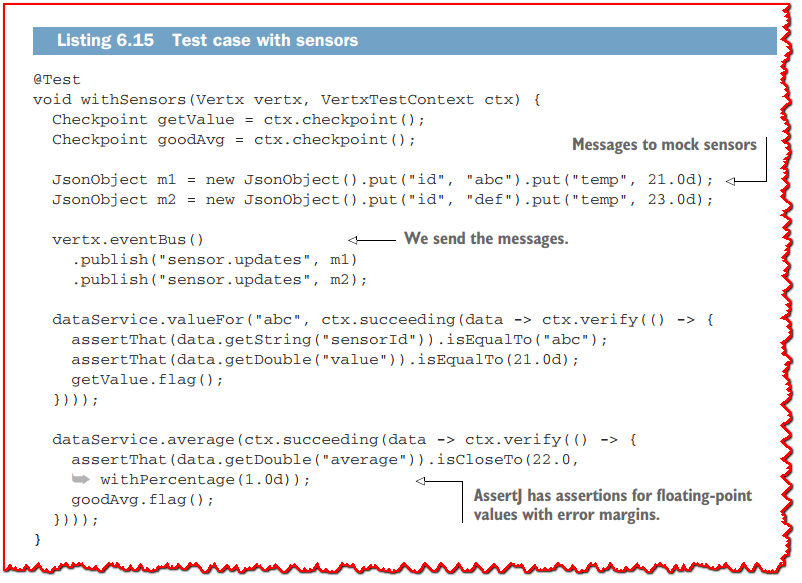
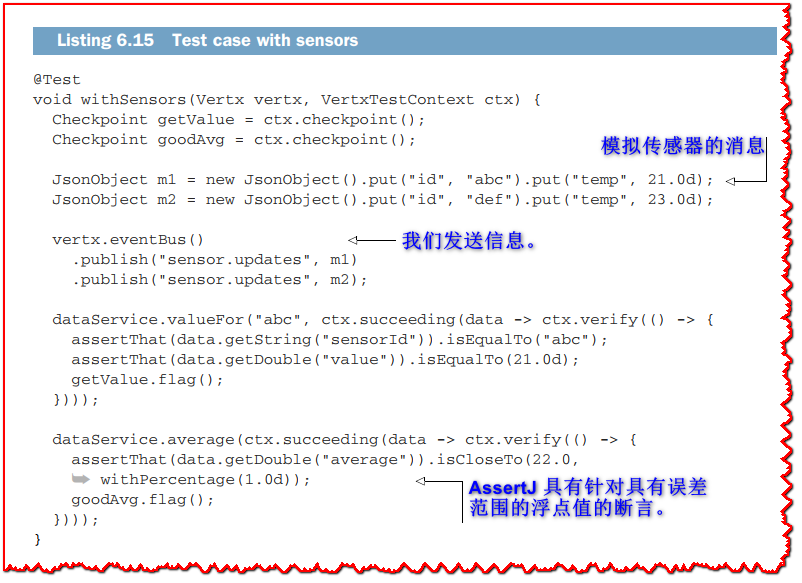
第6章翻译完成!

Changed region(s): [[0.5611, 0.8027, 0.9352, 0.8954], [0.717, 0.2161, 0.9663, 0.2779], [0.4988, 0.3705, 0.717, 0.4322]]

diff --git a/Chapter6-BeyondTheEventBus.md b/Chapter6-BeyondTheEventBus.md
@@ -2,217 +2,217 @@
 
 **本章涵盖了**
 
-  - How to expose services on top of the event bus
-  - Asynchronous testing of both verticles and event-bus services
+  - 如何在事件总线上公开服务
+  - Verticle 和事件总线服务的异步测试
 
-The event bus is a fundamental tool for articulating event processing in Vert.x, but there is more to it! Event-bus services are useful for exposing typed interfaces rather than plain messaging, especially when multiple message types are expected at an event-bus destination. Testing is also an important concept, and we’ll look at what is different in testing asynchronous Vert.x code compared to traditional testing.
+事件总线是在 Vert.x 中表达事件处理的基本工具，但它还有更多功能！ 事件总线服务对于公开类型化接口而不是简单的消息传递很有用，尤其是在事件总线目标处需要多种消息类型时。 测试也是一个重要的概念，我们将看看测试异步 Vert.x 代码与传统测试有什么不同。
 
-In this chapter we will revisit an earlier example, refactor it into an event-bus service, and test it.
+在本章中，我们将重温前面的示例，将其重构为事件总线服务，并对其进行测试。
 
-## 6.1   Revisiting heat sensors with a service API
+## 6.1   使用服务 API 重新审视热传感器
 
-In chapter 3 we used heat sensors as an example. We had a *SensorData* verticle that kept the last observed values for each sensor and compute their average using request/reply communication on the event bus. The following listing shows the code we used to compute the temperature average.
+在第 3 章中，我们以热传感器为例。 我们有一个 *SensorData* verticle，它保存每个传感器的最后观察值，并使用事件总线上的请求/应答通信计算它们的平均值。 下面的清单显示了我们用来计算温度平均值的代码。
 
 ![](Chapter6-BeyondTheEventBus.assets/Listing_6_1.png)
 
-This code is tightly coupled with the Vert.x event-bus APIs, as it needs to receive a message and reply to it. Any software component willing to call *average* has to send a message over the event bus and expect a response.
+此代码与 Vert.x 事件总线 API 紧密耦合，因为它需要接收消息并回复它。 任何愿意调用 *average* 的软件组件都必须通过事件总线发送消息并期待响应。
 
-But what if we could have a regular Java interface with methods to call, rather than having to send and receive messages over the event bus? The interface proposed in the next listing would be completely agnostic of the event bus.
+但是，如果我们可以拥有一个带有调用方法的常规 Java 接口，而不必通过事件总线发送和接收消息呢？ 下一个清单中提出的接口将与事件总线完全无关。
 
 ![](Chapter6-BeyondTheEventBus.assets/Listing_6_2.png)
 
-The proposed interface has methods with trailing callback parameters so the caller will be notified asynchronously of responses and errors. The *`Handler<AsyncResult<T>>`* type is commonly used for callbacks in Vert.x APIs, where T can be anything but is typically a JSON type.
+提议的接口具有带有尾随回调参数的方法，因此调用者将被异步通知响应和错误。 *`Handler<AsyncResult<T>>`* 类型通常用于 Vert.x API 中的回调，其中 T 可以是任何东西，但通常是 JSON 类型。
 
-The interface of listing 6.2 is what we are aiming for with event-bus services. Let’s revise the heat sensor example, replacing event-bus interactions with a SensorDataService typed Java interface.
+**清单 6.2** 的接口是我们使用事件总线服务的目标。 让我们修改热传感器示例，将事件总线交互替换为 *SensorDataService* 类型的 Java 接口。
 
-## 6.2 Return of the RPCs (remote procedure calls)
+## 6.2 返回 RPC（远程过程调用）
 
-You may already be familiar with *remote procedure calls*, a popular abstraction in distributed computing. RPCs were introduced to hide network communications when you’re calling functions running on another machine (the server). The idea is that a local function acts as a proxy, sending a message with the call arguments over the network to the server, and the server then calls the *real* function. The response is then sent back to the proxy, and the client has the illusion of having called a regular, local function.
+您可能已经熟悉 *远程过程调用*，这是分布式计算中的一种流行抽象。 当您调用在另一台机器（服务器）上运行的函数时，引入了 RPC 来隐藏网络通信。 这个想法是本地函数充当代理，通过网络向服务器发送带有调用参数的消息，然后服务器调用 *real* 函数。 然后将响应发送回代理，客户端会产生调用常规本地函数的错觉。
 
-Vert.x event-bus services are a form of *asynchronous RPC*:
-  - A service encapsulates a set of operations, like *SensorDataService* in listing 6.2.
-  - A service is described by a regular Java API with methods for exposed operations.
-  - Neither the requester nor the implementation need to directly deal with even-tbus messages.
+Vert.x 事件总线服务是一种*异步 RPC*：
+  - 服务封装了一组操作，如**清单 6.2** 中的 *SensorDataService*。
+  - 服务由带有公开操作方法的常规 Java API 描述。
+  - 请求者和实现者都不需要直接处理事件总线消息。
 
-Figure 6.1 illustrates the various components at stake when invoking the *average* method of the *SensorDataService* interface. The client code invokes the *average* method on a service proxy. This is an object that implements the *SensorDataService* interface and then sends a message on the event bus to the *sensor.data-service* destination (this can be configured). The message body contains the method call parameter values, so because *average* only takes a callback, the body is empty. The message also has an *action* header that indicates which method is being called.
+图 6.1 说明了在调用 *SensorDataService* 接口的 *average* 方法时所涉及的各种组件。 客户端代码调用服务代理上的 *average* 方法。 这是一个实现 *SensorDataService* 接口的对象，然后在事件总线上将消息发送到 *sensor.data-service* 目的地（可以配置）。 消息体包含方法调用参数值，所以因为*average*只接受回调，所以消息体为空。 该消息还有一个 *action* 标头，指示正在调用哪个方法。
 
 ![](Chapter6-BeyondTheEventBus.assets/Figure_6_1.png)
 
-A proxy handler listens to the *sensor.data-service* destination and dispatches method calls based on the message’s action header and body. The actual *SensorDataService* implementation is used here, and the *average* method is called. The proxy handler then replies to the event-bus message with a value passed through the *average* method callback. In turn, the client receives the reply through the service proxy, which passes the reply to the callback from the call on the client side.
+代理处理程序侦听 *sensor.data-service* 目标并根据消息的操作标头和正文分派方法调用。 这里使用了实际的 *SensorDataService* 实现，并调用了 *average* 方法。 然后，代理处理程序使用通过 *average* 方法回调传递的值回复事件总线消息。 反过来，客户端通过服务代理接收回复，服务代理将回复传递给来自客户端调用的回调。
 
-This model can simplify dealing with the event bus, especially when many operations need to be exposed. It thus makes sense to define a Java interface as an API rather than manually dealing with messages.
+这种模型可以简化对事件总线的处理，尤其是在需要公开许多操作时。 因此，将 Java 接口定义为 API 而不是手动处理消息是有意义的。
 
-## 6.3 Defining a service interface
+## 6.3 定义服务接口
 
-Listing 6.2 has the interface that we want for *SensorDataService*, but there is a little more code to add. To develop an event-bus service, you need to
-  - Write a Java interface that respects a few conventions
-  - Write an implementation
+清单 6.2 有我们想要的 *SensorDataService* 接口，但还需要添加一些代码。 要开发事件总线服务，您需要
+  - 编写一个尊重一些约定的 Java 接口
+  - 编写一个实现
 
-Vert.x does not rely on magic through bytecode engineering or reflection at runtime, so service proxies and handlers need to be written and compiled. Fortunately, Vert.x comes with code generators, so you will generate both the service proxies and handlers at compilation time rather than write them yourself.
+Vert.x 不依赖于通过字节码工程或运行时反射的魔法，因此需要编写和编译*服务代理* 和 *处理程序*。 幸运的是，Vert.x 带有代码生成器，因此您将在编译时生成服务代理和处理程序，而不是自己编写它们。
 
-The complete *SensorDataService* interface is detailed in the following listing.
+完整的 *SensorDataService* 接口在以下列表中详细说明。
 
 ![](Chapter6-BeyondTheEventBus.assets/Listing_6_3.png)
 
-The *@ProxyGen* annotation is used to mark an event-bus service interface so as to generate the proxy code.
+`@ProxyGen` 注解用于标记事件总线服务接口，以生成代理代码。
 
-You will also need to define a *package-info.java* file and annotate the package definition with *@ModuleGen* to enable the annotation processor, as shown in the next listing.
+您还需要定义一个 `package-info.java` 文件并使用 `@ModuleGen` 注解包定义以启用注解处理器，如下面的清单所示。
 
 ![](Chapter6-BeyondTheEventBus.assets/Listing_6_4.png)
 
-The methods in a service interface need to adhere to a few conventions, notably that of having a callback as the last parameter. You will be tempted to use return values rather than callbacks, but remember that we are dealing with asynchronous operations, so we need callbacks! It is idiomatic for service interfaces to have factory methods for both the service implementations (*create*) and proxies (*createProxy*). These methods greatly simplify the code for either getting a proxy or publishing a service.
+服务接口中的方法需要遵守一些约定，特别是将回调作为最后一个参数。 你会很想使用返回值而不是回调，但请记住，我们正在处理异步操作，所以我们需要回调！ 服务接口具有服务实现 (*create*) 和代理 (*createProxy*) 的工厂方法是**惯用**的。 这些方法极大地简化了获取代理或发布服务的代码。
 
-The *SensorDataServiceVertxEBProxy* class is generated by the Vert.x code generator, and if you peek into it, you will see event-bus operations. There is also a *SensorDataServiceVertxProxyHandler* class that’s generated, but only Vert.x will use it, not your code.
+*SensorDataServiceVertxEBProxy* 类由 Vert.x 代码生成器生成，如果您查看它，您将看到事件总线操作。 还生成了一个 *SensorDataServiceVertxProxyHandler* 类，但只有 Vert.x 会使用它，而不是您的代码。
 
-Let’s now look at the actual service implementation in the *SensorDataServiceImpl* class.
+现在让我们看看 *SensorDataServiceImpl* 类中的实际服务实现。
 
-## 6.4 Service implementation
+## 6.4 服务实现
 
-The following service implementation is a direct adaptation of the code from chapter 3.
+以下服务实现是对第 3 章代码的直接改编。
 
 ![](Chapter6-BeyondTheEventBus.assets/Listing_6_5.png)
 
-Compared to the code of chapter 3, we have mostly replaced the event-bus code with passing asynchronous results via completed future objects. This code is also free from references to the service proxy handler code, which is being generated.
+与第 3 章的代码相比，我们大部分都将事件总线代码替换为通过已完成的future 对象传递异步结果。 此代码也没有对生成的*服务代理处理程序*代码的引用。
 
->  **💡提示:** The code in listing 6.5 is free of asynchronous operations. In more elaborated services, you will quickly stumble upon cases where you issue asynchronous calls to some other component like a database, an HTTP service, a message broker, or even another service over the event bus. Once you have a response ready, you will pass the result or an error to the method callback, just like we did in *SensorDataServiceImpl*.
+>  **💡提示:** 清单 6.5 中的代码没有异步操作。 在更详细的服务中，您会很快发现向其他组件（如数据库、HTTP 服务、消息代理，甚至是事件总线上的其他服务）发出异步调用的情况。 准备好响应后，您会将结果或错误传递给回调方法，就像我们在 *SensorDataServiceImpl* 中所做的那样。
 
-## 6.5 Enabling proxy code generation
+## 6.5 启用代理代码生成
 
-Service proxy generation is done using *javac* and apt annotation processing at compilation time. Two Vert.x modules are required: *vertx-service-proxy* and *vertxcodegen*.
+服务代理生成是在编译时使用 *java* 和 apt 注解处理完成的。 需要两个 Vert.x 模块：*vertx-service-proxy* 和 *vertx-codegen*。
 
-To make the Vert.x code generation work with annotation processing in Gradle, you will need a configuration similar to the following.
+要使 Vert.x 代码生成与 Gradle 中的注解处理一起使用，您将需要类似于以下内容的配置。
 
 ![](Chapter6-BeyondTheEventBus.assets/Listing_6_6.png)
 
-Now whenever the Java classes are being compiled, the proxy classes are generated. You can see the files in the *src/main/generated* folder of your project.
+现在，每当编译 Java 类时，都会生成代理类。 您可以在项目的 *src/main/generated* 文件夹中查看文件。
 
-If you look into the code of *SensorDataServiceVertxProxyHandler*, you’ll see a *switch* block in the *handle* method, where the *action* header is being used to dispatch the method call to the service implementation methods. Similarly, in the *average* method of *SensorDataServiceVertxEBProxy* you will see the code that sends a message over the event bus to invoke that method. The code of both *SensorDataServiceVertxProxyHandler* and *SensorDataServiceVertxEBProxy* is really what you would write if you had to implement your own event-bus service system.
+如果您查看 *SensorDataServiceVertxProxyHandler* 的代码，您会在 *handle* 方法中看到 *switch* 块，其中 `action` 标头用于将方法调用分派给服务实现方法。 同样，在 *SensorDataServiceVertxEBProxy* 的 *average* 方法中，您将看到通过事件总线发送消息以调用该方法的代码。如果您必须实现自己的事件总线服务系统，*SensorDataServiceVertxProxyHandler* 和 *SensorDataServiceVertxEBProxy* 的代码实际上就是您要编写的代码。
 
-## 6.6 Deploying event-bus services
+## 6.6 部署事件总线服务
 
-Event-bus services need to be deployed to verticles, and event-bus addresses need to be defined. The following listing shows how to deploy a service.
+事件总线服务需要部署到 Verticle，并且需要定义事件总线地址。 以下清单显示了如何部署服务。
 
 ![](Chapter6-BeyondTheEventBus.assets/Listing_6_7.png)
 
-Deploying is as simple as binding to an address and passing a service implementation. We can use the factory *create* methods from the *SensorDataService* interface to do this.
+部署就像绑定到地址并传递服务实现一样简单。 我们可以使用 *SensorDataService* 接口中的工厂 *create* 方法来执行此操作。
 
-You can deploy multiple services on a verticle. It makes sense to deploy event-bus services that are functionally related together, so a verticle remains a coherent eventprocessing unit.
+您可以在一个 Verticle 上部署多个服务。 部署功能相关的事件总线服务是有意义的，因此 Verticle 仍然是一个连贯的事件处理单元。
 
-Obtaining a service proxy to issue method calls is done by calling the corresponding factory method and passing the correct event-bus destination, as in the following listing.
+通过调用相应的工厂方法并传递正确的事件总线地址来获得用于发出方法调用的服务代理，如下面的清单所示。
 
 ![](Chapter6-BeyondTheEventBus.assets/Listing_6_8.png)
 
-The service interface follows the callbacks model, as this is the canonical definition for (asynchronous) service interfaces.
+服务接口遵循回调模型，因为这是（异步）服务接口的规范定义。
 
-## 6.7 Service proxies beyond callbacks
+## 6.7 超越回调的服务代理
 
-We explored asynchronous programming models other than callbacks in the previous chapter, but we designed event-bus services with callbacks. The good news is that you can leverage code generation to get, say, RxJava or Kotlin coroutine variants for your service proxies. Even better, you do not need much extra work!
+我们在前一章探讨了回调以外的异步编程模型，但我们设计了带有回调的事件总线服务。 好消息是，您可以利用代码生成来为您的服务代理获取 RxJava 或 Kotlin 协程变体。 更好的是，您不需要太多额外的工作！
 
-To make this work, you need to add the @VertxGen annotation to your service interface, as follows.
+要实现此功能，需要将`@VertxGen`注解添加到服务接口，如下所示。
 
 ![](Chapter6-BeyondTheEventBus.assets/Listing_6_9.png)
 
-When this annotation is present, code generation by a Vert.x Java annotation processor is enabled with all suitable code generators available at build time.
+当此注解存在时，Vert.x Java 注解处理器的代码生成将在构建时启用所有合适的代码生成器。
 
-To generate RxJava bindings, we need to add the dependencies in the following listing.
+要生成 RxJava 绑定，我们需要在以下清单中添加依赖项。
 
 ![](Chapter6-BeyondTheEventBus.assets/Listing_6_10.png)
 
-When we compile the project, a *chapter6.reactivex.SensorDataService* class is generated. This is a small shim that bridges the original callbacks API to RxJava. The class has all the methods from the original *SensorDataService* API (including *create* factory methods), plus rx-prefixed methods.
+当我们编译项目时，会生成一个 *chapter6.reactivex.SensorDataService* 类。 这是一个将原始回调 API 连接到 RxJava 的小垫片。 该类具有原始 *SensorDataService* API 中的所有方法（包括 *create* 工厂方法），以及带有 rx 前缀的方法。
 
-Given the *average* method that takes a callback, the RxJava code generator creates an *rxAverage* method with no parameter that returns a *Single* object. Similarly, *valueFor* gets translated to *rxValueFor*, a method that takes a *String* argument (the sensor identifier) and returns a *Single* object.
+给定接受回调的 *average* 方法，RxJava 代码生成器创建一个不带参数的 *rxAverage* 方法，该方法返回 *Single* 对象。 类似地，*valueFor* 被转换为 *rxValueFor*，这是一个接受 *String* 参数（传感器标识符）并返回 *Single* 对象的方法。
 
-The next listing shows a sample use of the generated RxJava API.
+下一个清单显示了使用生成的 RxJava API 的示例。
 
 ![](Chapter6-BeyondTheEventBus.assets/Listing_6_11.png)
 
-The RxJava pipeline created here makes a new subscription every three seconds and extracts the average into a string that is then displayed on the standard output.
+此处创建的 RxJava 管道每三秒进行一次新订阅，并将平均值提取到一个字符串中，然后显示在标准输出中。
 
->  **🏷注意:** You must always develop your event-bus services with the callbacks API for the interface and implementation. Code generators then turn it into other models.
+>  **🏷注意:** 您必须始终使用接口和实现的回调 API 来开发事件总线服务。 然后代码生成器将其转换为其他模型。
 
-Now that you know how to develop event-bus services, let’s switch to the topic of testing verticles and services.
+现在您知道如何开发事件总线服务，让我们切换到测试 Verticle 和服务的主题。
 
-## 6.8 Testing and Vert.x
+## 6.8 测试和 Vert.x
 
-Automated testing is critical in designing software, and Vert.x applications also need to be tested. The main difficulty when testing Vert.x code is the asynchronous nature of operations. Other than that, tests are classical: they have a setup phase and a test execution and verification phase, followed by a tear-down phase.
+自动化测试在软件设计中至关重要，Vert.x 应用程序也需要进行测试。 测试 Vert.x 代码的主要困难是操作的异步特性。 除此之外，测试是经典的：它们有一个设置阶段和一个测试执行和验证阶段，然后是一个拆卸阶段。
 
-A verticle is relatively well isolated from the rest of the system, thanks to the event bus. This is very useful in a test environment:
-  - The event bus allows you to send events to a verticle to put it in a desired state and to observe what events it produces.
-  - The configuration passed to a verticle when it is deployed allows you to tune some parameters for a test-centric environment (e.g., using an in-memory database).
-  - It is possible to deploy mock verticles with controlled behaviors to substitute for verticles with lots of dependencies (e.g., databases, connecting to other verticles, etc.).
+多亏了事件总线，verticle 与系统的其余部分相对隔离得很好。 这在测试环境中非常有用：
+  - 事件总线允许您将事件发送到一个verticle，以使其处于所需的状态，并观察它产生了什么事件。
+  - 部署时传递给 Verticle 的配置允许您为以测试为中心的环境调整一些参数（例如，使用内存数据库）。
+  - 可以部署具有受控行为的模拟 Verticle 来替代具有大量依赖项的 Verticle（例如，数据库、连接到其他 Verticle 等）。
 
-As such, testing verticles is more integration testing than unit testing, regardless of whether the verticles under test are being deployed within the same JVM or in cluster mode. We need to see verticles as opaque boxes that we communicate with via the event bus, and possibly by connecting to network protocols that verticles expose. For instance, when a verticle exposes an HTTP service, we are likely going to issue HTTP requests in tests to check its behavior.
+因此，与单元测试相比，测试 Verticle 更像是集成测试，无论被测试的 Verticle 是部署在同一个 JVM 中还是以集群模式部署。 我们需要将 Verticle 视为不透明的盒子，我们通过事件总线进行通信，并且可能通过连接到 Verticle 公开的网络协议。 例如，当一个 Verticle 暴露一个 HTTP 服务时，我们可能会在测试中发出 HTTP 请求来检查它的行为。
 
-In this book, we will only focus on the Vert.x-specific aspects of testing. If you lack experience with the broader topic of testing, I recommend reading a book like *Effective Unit Testing* by Lasse Koskela (Manning, 2013).
+在本书中，我们将只关注 Vert.x 特定的测试方面。 如果您对更广泛的测试主题缺乏经验，我建议您阅读 Lasse Koskela（Manning，2013 年）的 *Effective Unit Testing* 之类的书。
 
-### 6.8.1 Using JUnit 5 with Vert.x
+### 6.8.1 将 JUnit 5 与 Vert.x 一起使用
 
-Vert.x supports both the classic JUnit 4 test framework as well as the more recent one for JUnit 5. Vert.x provides a module called *vertx-junit5* with support for version 5 of the JUnit framework (https://junit.org/junit5/). To use it in a Vert.x project, you need to add the *io.vertx:vertx-junit5* dependency, and possibly some JUnit 5 libraries.
+Vert.x 支持经典的 JUnit 4 测试框架以及最新的 JUnit 5 测试框架。Vert.x 提供了一个名为 *vertx-junit5* 的模块，支持 JUnit 框架的第 5 版 (https://junit. org/junit5/）。 要在 Vert.x 项目中使用它，您需要添加 *io.vertx:vertx-junit5* 依赖项，可能还有一些 JUnit 5 库。
 
-In a Gradle project, the *dependencies* section needs to be updated as in the following listing.
+在 Gradle 项目中，需要更新 *dependencies* 部分，如下所示。
 
 ![](Chapter6-BeyondTheEventBus.assets/Listing_6_12.png)
 
-The *vertx-junit5* library already has a dependency on *junit-jupiter-api*, but it is a good practice to fix the version in the build. The *junit-jupiter-engine* module needs to be present in the *testRuntime* scope for Gradle. Finally, JUnit 5 can be used with any assertion API, including its built-in one, and AssertJ is a popular one.
+*vertx-junit5* 库已经依赖于 *junit-jupiter-api*，但在构建中修复版本是一个好习惯。 *junit-jupiter-engine* 模块需要存在于 Gradle 的 *testRuntime* 范围内。 最后，JUnit 5 可以与任何断言 API 一起使用，包括它的内置 API，而 AssertJ 是一种流行的 API。
 
-### 6.8.2 Testing DataVerticle
+### 6.8.2测试 DataVerticle
 
-We need two test cases to check the behavior of *DataVerticle*, and by extension that of *SensorDataService*:
-  - When no sensor is present, the average should be 0, and requesting a value for any sensor identifier must raise an error.
-  - When there are sensors, we need to check the average value and individual sensor values.
+我们需要两个测试用例来检查 *DataVerticle* 的行为，以及 *SensorDataService* 的扩展：
+  - 当不存在传感器时，平均值应为 0，并且请求任何传感器标识符的值都必须引发错误。
+  - 当有传感器时，我们需要检查平均值和单个传感器值。
 
-Figure 6.2 shows the interactions for the test environment. The test case has a proxy reference to make calls to *SensorDataService*. The actual *DataVerticle* verticle is deployed at the *sensor.data-service* destination. It can issue *valueFor* and *average* method calls from tests. Since *DataVerticle* receives messages from sensors on the event bus, we can send arbitrary messages rather than deploying actual *HeatSensor* verticles over which we have no control. Mocking a verticle is often as simple as sending the type of messages it would send.
+**图 6.2** 显示了测试环境的交互。 测试用例有一个代理引用来调用*SensorDataService*。 实际的 *DataVerticle* verticle 部署在 *sensor.data-service* 目的地。 它可以从测试中发出 *valueFor* 和 *average* 方法调用。 由于 *DataVerticle* 从事件总线上的传感器接收消息，我们可以发送任意消息，而不是部署我们无法控制的实际 *HeatSensor* verticles。 模拟一个 Verticle 通常就像发送它要发送的消息类型一样简单。
 
 ![](Chapter6-BeyondTheEventBus.assets/Figure_6_2.png)
 
-The following listing shows the test class preamble.
+以下清单显示了测试类序言。
 
 ![](Chapter6-BeyondTheEventBus.assets/Listing_6_13.png)
 
-JUnit 5 supports extensions to give additional functionality. In particular, extensions can inject parameters into test methods, and they can intercept life-cycle events such as before and after a test method is called. The *VertxExtension* class simplifies writing test cases by doing the following:
-  - Injecting ready-to-use instances of *Vertx* with default configuration
-  - Injecting a *VertxTestContext* object to deal with the asynchronous nature of Vert.x code
-  - Ensuring awaiting for the *VertxTestContext* to either succeed or fail
+JUnit 5 支持扩展以提供附加功能。 特别是，扩展可以将参数注入测试方法，它们可以拦截生命周期事件，例如调用测试方法之前和之后。 *VertxExtension* 类通过执行以下操作来简化编写测试用例：
+  - 使用默认配置注入 *Vertx* 的现成实例
+  - 注入 *VertxTestContext* 对象来处理 Vert.x 代码的异步特性
+  - 确保等待 *VertxTestContext* 成功或失败
 
-The *prepare* method is executed before each test case, to prepare the test environment. We use it here to deploy the *DataVerticle* verticle and then fetch the service proxy and store it in the *dataService* field. Since deploying a verticle is an asynchronous operation, the *prepare* method is injected with a *Vertx* context and a *VertxTestContext* object to notify when it has completed.
+*prepare* 方法在每个测试用例之前执行，以准备测试环境。 我们在这里使用它来部署 *DataVerticle* verticle，然后获取服务代理并将其存储在 *dataService* 字段中。 由于部署 Verticle 是一个异步操作，所以 *prepare* 方法会被注入 *Vertx* 上下文和 *VertxTestContext* 对象以通知它何时完成。
 
->  **💡提示:** Users of JUnit before version 5 may be surprised that the class and test methods are package-private; this is idiomatic with JUnit 5.
+>  **💡提示:** 版本 5 之前的 JUnit 用户可能会惊讶于类和测试方法是包私有的； 这是 JUnit 5 的惯用方法。
 
-You can see the first test case, when no sensors are deployed, in the following listing.
+您可以在以下清单中看到第一个测试用例，当没有部署传感器时。
 
 ![](Chapter6-BeyondTheEventBus.assets/Listing_6_14.png)
 
-This test case assumes that no sensor has been deployed, so trying to get any sensor value must fail. We check this behavior by looking for the temperature value of sensor *abc*, which doesn’t exist. We then check that the average value is 0.
+此测试用例假设没有部署传感器，因此尝试获取任何传感器值肯定会失败。 我们通过查找不存在的传感器 *abc* 的温度值来检查此行为。 然后我们检查平均值是否为 0。
 
-Checkpoints are flagged to mark that the test execution reached certain lines.
+检查点被标记以标记测试执行到达某些行。
 
-When all declared checkpoints have been flagged, the test completes successfully. The test fails when an assertion fails, when an unexpected exception is thrown, or when a (configurable) delay elapses and not all checkpoints have been flagged.
+当所有声明的检查点都被标记之后，测试就成功完成了。当断言失败、抛出意外异常或发生(可配置)延迟且未标记所有检查点时，测试失败。
 
-**Why asynchronous testing is different**
+**为什么异步测试不同**
 
-Testing asynchronous operations is slightly different from the regular testing you may be familiar with. The default contract in test executions is that a test runner thread calls test methods, and they fail when exceptions are thrown. Assertion methods throw exceptions to report errors.
+测试异步操作与您可能熟悉的常规测试略有不同。 测试执行中的默认约定是测试运行线程调用测试方法，并且在抛出异常时它们会失败。 断言方法抛出异常以报告错误。
 
-Since operations like *deployVerticle* and *send* are asynchronous, the test runner thread exits the method before they have any chance to complete. The *VertxExtension* class takes care of that by waiting for *VertxTestContext* to report either a success or a failure. To avoid having tests wait forever, there is a timeout (30 seconds by default).
+因为像 *deployVerticle* 和 *send* 这样的操作是异步的，所以测试运行线程在它们有机会完成之前就退出了方法。 *VertxExtension* 类通过等待 *VertxTestContext* 报告成功或失败来处理这个问题。 为了避免让测试永远等待，有一个超时（默认为 30 秒）。
 
-Finally, we have a test case for when there are sensors.
+最后，当有传感器时，我们有一个测试用例。
 
 ![](Chapter6-BeyondTheEventBus.assets/Listing_6_15.png)
 
-This test simulates two sensors with identifiers *abc* and *def* by sending fake sensor data updates over the event bus, just like a sensor would do. We then have determinism in our assertions, and we can check the behavior for both *valueFor* and *average* methods.
+该测试通过在事件总线上发送虚假传感器数据更新来模拟具有标识符 *abc* 和 *def* 的两个传感器，就像传感器所做的那样。 然后，我们的断言具有确定性，我们可以检查 *valueFor* 和 *average* 方法的行为。
 
-### 6.8.3 Running the tests
+### 6.8.3 运行测试
 
-The tests can be run from your IDE. You can also run them using Gradle: *gradlew test*.
+可以从您的 IDE 运行测试。 您也可以使用 Gradle 运行它们：*gradlew test*。
 
-Gradle generates a human-readable test report in *build/reports/tests/test/ index.html*. When you open the file in a web browser, you can check that all tests passed, as shown in figure 6.3.
+Gradle 在 *build/reports/tests/test/index.html* 中生成人类可读的测试报告。 当您在网络浏览器中打开该文件时，您可以检查所有测试是否通过，如**图 6.3** 所示。
 
 ![](Chapter6-BeyondTheEventBus.assets/Figure_6_3.png)
 
-Note that the Gradle *test* task is a dependency of *build*, so the tests are always executed when the project is fully built.
+请注意，Gradle *test* 任务是 *build* 的依赖项，因此测试总是在项目完全构建时执行。
 
 ## 总结
 
-  - Event-bus services and proxies abstract from event-bus communications by providing an asynchronous service interface.
-  - It is possible to generate bindings other than callbacks for event-bus services: RxJava, Kotlin coroutines, etc.
-  - Testing asynchronous code and services is more challenging than in the traditional imperative cases, and Vert.x comes with dedicated support for JUnit 5.
+  - 事件总线服务和代理通过提供异步服务接口从事件总线通信中抽象出来。
+  - 可以为事件总线服务生成除回调之外的绑定：RxJava、Kotlin 协程等。
+  - 测试异步代码和服务比传统的命令式案例更具挑战性，Vert.x 提供了对 JUnit 5 的专门支持。
 
